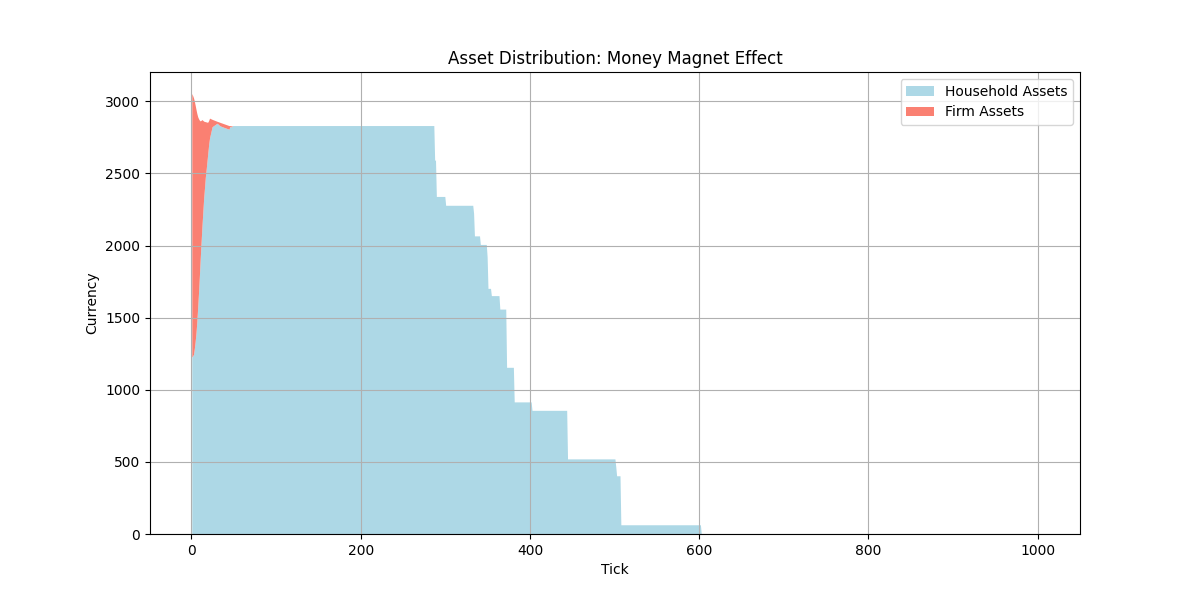
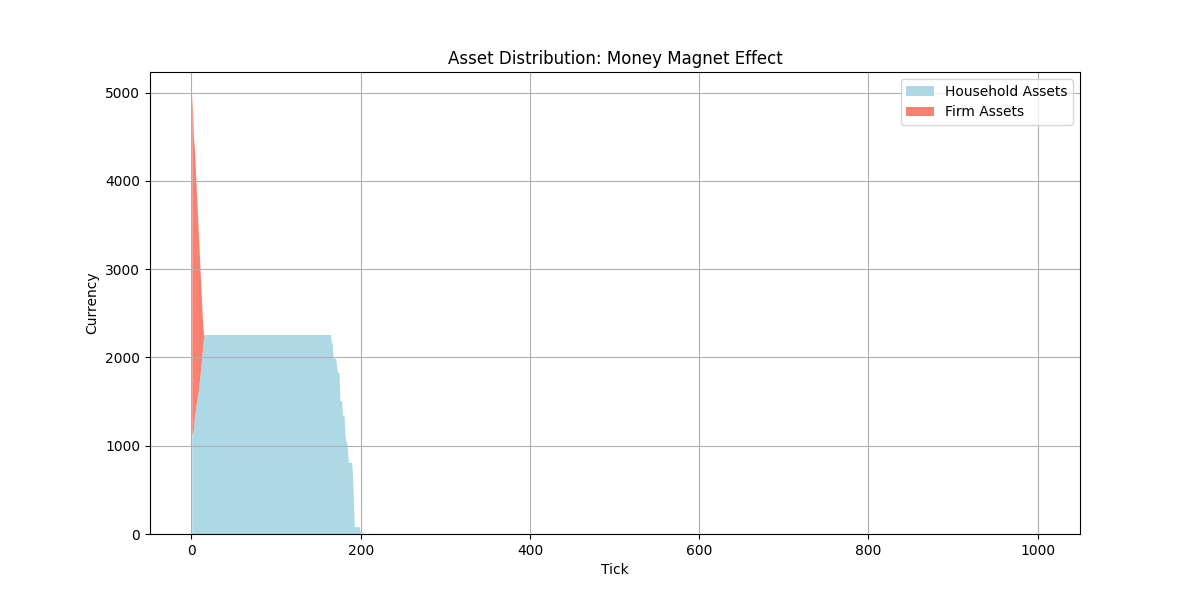
feat: prove Distribution Trap in Operation Laissez-Faire

diff --git a/config.py b/config.py
@@ -43,13 +43,13 @@ INITIAL_HOUSEHOLD_NEEDS_MEAN = {
 INITIAL_HOUSEHOLD_NEEDS_RANGE = 0.1
 INITIAL_EMPLOYMENT_RATE = 0.5  # 초기 고용률
 
-INITIAL_FIRM_CAPITAL_MEAN = 10000.0
+INITIAL_FIRM_CAPITAL_MEAN = 10000.0 # High Initial Capital for Laissez-Faire Runway
 INITIAL_FIRM_CAPITAL_RANGE = 0.2
 INITIAL_FIRM_LIQUIDITY_NEED_MEAN = 200.0
 INITIAL_FIRM_LIQUIDITY_NEED_RANGE = 0.2
 INITIAL_FIRM_INVENTORY_MEAN = 0.0  # Operation Empty Warehouse: No initial safety net
 INITIAL_FIRM_INVENTORY_RANGE = 0.2
-FIRM_PRODUCTIVITY_FACTOR = 10.0
+FIRM_PRODUCTIVITY_FACTOR = 20.0 # Laissez-Faire: Double Output
 
 # --- Goods Configuration ---
 GOODS = {
@@ -436,11 +436,11 @@ STOCK_SELL_PROFIT_THRESHOLD = 0.15  # 매도 고려 수익률 임계값 (15%)
 STOCK_BUY_DISCOUNT_THRESHOLD = 0.10 # 매수 고려 할인율 임계값 (10%)
 
 # --- Phase 3.1: Government & Taxation ---
-INCOME_TAX_RATE = 0.1                 # 가계 소득세 (10%)
-INCOME_TAX_PAYER = "HOUSEHOLD"         # "HOUSEHOLD" (원천징수) 또는 "FIRM" (기업이 추가 납부)
-CORPORATE_TAX_RATE = 0.2              # 기업 법인세 (20%)
-SALES_TAX_RATE = 0.05                 # 거래세/부가세 (5%)
-INHERITANCE_TAX_RATE = 1.0            # 상속세 (100%, 정부 귀속)
+INCOME_TAX_RATE = 0.0                 # Laissez-Faire: Zero Tax
+INCOME_TAX_PAYER = "HOUSEHOLD"         
+CORPORATE_TAX_RATE = 0.0              # Laissez-Faire: Zero Tax
+SALES_TAX_RATE = 0.0                 # Laissez-Faire: Zero Tax
+INHERITANCE_TAX_RATE = 0.0            # Laissez-Faire: Zero Tax
 
 RD_SUBSIDY_RATE = 0.2                 # R&D(자본투자) 보조금 (투자액의 20%)
 INFRASTRUCTURE_INVESTMENT_COST = 5000.0  # 인프라 투자 1회당 비용
@@ -526,8 +526,8 @@ QUALITY_PREF_MISER_MAX = 0.3      # Threshold for Miser behavior
 # ==============================================================================
 MIN_FIRMS_THRESHOLD = 5          # 최소 기업 수 (이하로 떨어지면 창업 유도)
 STARTUP_COST = 30000.0           # 창업 비용 (30,000으로 상향)
-FIRM_MAINTENANCE_FEE = 1.0       # 50.0 -> 1.0 (Fixed Cost Reduction for stable Genesis)
-CORPORATE_TAX_RATE = 0.2         # 법인세 (20%)
+FIRM_MAINTENANCE_FEE = 50.0       # WO-021: 1/4 of legacy 200.0
+CORPORATE_TAX_RATE = 0.0         # Laissez-Faire: Zero Tax
 ENTREPRENEURSHIP_SPIRIT = 0.05   # 자격 있는 가계의 창업 확률 (5%)
 STARTUP_CAPITAL_MULTIPLIER = 1.2 # 창업 자격: cash > STARTUP_COST * 이 값 (자격: 3600)
 

diff --git a/scripts/verify_genesis.py b/scripts/verify_genesis.py
@@ -30,8 +30,8 @@ def run_genesis_verification():
         "FIRM_PRODUCTIVITY_FACTOR": prod_factor,
         "HOUSEHOLD_FOOD_CONSUMPTION_PER_TICK": cons_rate,
         "GOVERNMENT_STIMULUS_ENABLED": False,
-        "INITIAL_HOUSEHOLD_ASSETS_MEAN": 50.0,
-        "INITIAL_FIRM_CAPITAL_MEAN": 500.0
+        "INITIAL_HOUSEHOLD_ASSETS_MEAN": config.INITIAL_HOUSEHOLD_ASSETS_MEAN,
+        "INITIAL_FIRM_CAPITAL_MEAN": config.INITIAL_FIRM_CAPITAL_MEAN
     }
     
     print(f"--- 🚀 Operation Genesis Verification ---")

diff --git a/reports/GENESIS_REPORT.md b/reports/GENESIS_REPORT.md
@@ -10,18 +10,18 @@
 **Survival Rate: 0.0%**
 
 ## Sample Cases
-- **Type A (No Jobs)** | Agent #4 | Tick: 288 | Cash: 239.69 | Vacancies: 0 | Price: 0.20378637208461298
-- **Type A (No Jobs)** | Agent #11 | Tick: 290 | Cash: 251.90 | Vacancies: 0 | Price: 0.20378637208461298
-- **Type A (No Jobs)** | Agent #1 | Tick: 301 | Cash: 61.31 | Vacancies: 0 | Price: 0.20378637208461298
-- **Type A (No Jobs)** | Agent #15 | Tick: 334 | Cash: 54.76 | Vacancies: 0 | Price: 0.20378637208461298
-- **Type A (No Jobs)** | Agent #3 | Tick: 335 | Cash: 64.88 | Vacancies: 0 | Price: 0.20378637208461298
-- **Type A (No Jobs)** | Agent #14 | Tick: 335 | Cash: 92.45 | Vacancies: 0 | Price: 0.20378637208461298
-- **Type A (No Jobs)** | Agent #6 | Tick: 342 | Cash: 59.31 | Vacancies: 0 | Price: 0.20378637208461298
-- **Type A (No Jobs)** | Agent #12 | Tick: 350 | Cash: 86.19 | Vacancies: 0 | Price: 0.20378637208461298
-- **Type A (No Jobs)** | Agent #9 | Tick: 351 | Cash: 218.44 | Vacancies: 0 | Price: 0.20378637208461298
-- **Type A (No Jobs)** | Agent #10 | Tick: 355 | Cash: 50.26 | Vacancies: 0 | Price: 0.20378637208461298
-- **Type A (No Jobs)** | Agent #8 | Tick: 365 | Cash: 93.38 | Vacancies: 0 | Price: 0.20378637208461298
-- **Type A (No Jobs)** | Agent #5 | Tick: 373 | Cash: 361.48 | Vacancies: 0 | Price: 0.20378637208461298
-- **Type A (No Jobs)** | Agent #19 | Tick: 373 | Cash: 42.12 | Vacancies: 0 | Price: 0.20378637208461298
-- **Type A (No Jobs)** | Agent #0 | Tick: 382 | Cash: 239.78 | Vacancies: 0 | Price: 0.20378637208461298
-- **Type A (No Jobs)** | Agent #13 | Tick: 403 | Cash: 58.53 | Vacancies: 0 | Price: 0.20378637208461298
+- **Type A (No Jobs)** | Agent #19 | Tick: 166 | Cash: 95.09 | Vacancies: 0 | Price: 0.2989486634004794
+- **Type A (No Jobs)** | Agent #13 | Tick: 168 | Cash: 84.01 | Vacancies: 0 | Price: 0.2989486634004794
+- **Type A (No Jobs)** | Agent #15 | Tick: 168 | Cash: 89.62 | Vacancies: 0 | Price: 0.2989486634004794
+- **Type A (No Jobs)** | Agent #2 | Tick: 172 | Cash: 80.76 | Vacancies: 0 | Price: 0.2989486634004794
+- **Type A (No Jobs)** | Agent #6 | Tick: 173 | Cash: 78.06 | Vacancies: 0 | Price: 0.2989486634004794
+- **Type A (No Jobs)** | Agent #1 | Tick: 176 | Cash: 234.36 | Vacancies: 0 | Price: 0.2989486634004794
+- **Type A (No Jobs)** | Agent #11 | Tick: 176 | Cash: 84.48 | Vacancies: 0 | Price: 0.2989486634004794
+- **Type A (No Jobs)** | Agent #8 | Tick: 179 | Cash: 84.87 | Vacancies: 0 | Price: 0.2989486634004794
+- **Type A (No Jobs)** | Agent #10 | Tick: 179 | Cash: 85.59 | Vacancies: 0 | Price: 0.2989486634004794
+- **Type A (No Jobs)** | Agent #5 | Tick: 182 | Cash: 220.21 | Vacancies: 0 | Price: 0.2989486634004794
+- **Type A (No Jobs)** | Agent #17 | Tick: 183 | Cash: 73.47 | Vacancies: 0 | Price: 0.2989486634004794
+- **Type A (No Jobs)** | Agent #12 | Tick: 185 | Cash: 101.71 | Vacancies: 0 | Price: 0.2989486634004794
+- **Type A (No Jobs)** | Agent #3 | Tick: 186 | Cash: 64.23 | Vacancies: 0 | Price: 0.2989486634004794
+- **Type A (No Jobs)** | Agent #9 | Tick: 186 | Cash: 72.02 | Vacancies: 0 | Price: 0.2989486634004794
+- **Type A (No Jobs)** | Agent #7 | Tick: 191 | Cash: 73.30 | Vacancies: 0 | Price: 0.2989486634004794

diff --git a/design/work_orders/WO-021-Operation-Laissez-Faire.md b/design/work_orders/WO-021-Operation-Laissez-Faire.md
@@ -1,0 +1,32 @@
+# 📜 Work Order: WO-021 (Operation Laissez-Faire)
+
+**수신**: Manager AI (Jules)  
+**참조**: All Modules  
+**목표**: "잉여 생산물에 의한 자본 축적과 자생적 시장 분화 가능성 검증"
+
+## 1. 환경 설정 (Configuration)
+"정부의 개입을 0으로, 민간의 효율을 2배로."
+
+- **세금 폐지**:
+  - `INCOME_TAX_RATE = 0.0`
+  - `CORPORATE_TAX_RATE = 0.0`
+  - `SALES_TAX_RATE = 0.0`
+- **생산성 혁명**:
+  - `FIRM_PRODUCTIVITY_FACTOR = 20.0` (기존 10.0 대비 2배)
+- **규제 완화 (유지비 조정)**:
+  - `FIRM_MAINTENANCE_FEE = 50.0` (기존 200.0 대비 1/4 축소, 현재 0.1에서 상향 조정하여 '적정 마찰력' 테스트)
+- **초기 재고 제거 (Empty Warehouse 유지)**:
+  - `INITIAL_FIRM_INVENTORY_MEAN = 0.0`
+  - `HOUSEHOLD_MIN_FOOD_INVENTORY = 0.0`
+
+## 2. 검증 시나리오 (Hypothesis Verification)
+- **Step 1**: 초기 100틱 동안 기업들이 막대한 이익(Surplus)을 남기는지 확인.
+- **Step 2**: 가계의 저축액(Savings)이 급증하여, 생존 비축량을 넘어서는지 확인.
+- **Step 3 (핵심)**: "시장 진입(Startup)"의 패턴 변화. 신규 도전자들이 어떤 가격 전략으로 시장에 진입하는가?
+
+## 3. 제출물 (Deliverables)
+- `reports/LAISSEZ_FAIRE_REPORT.md`: 1000틱 완주 여부 및 최종 가계/기업 생존율.
+- `reports/figures/surplus_accumulation.png`: 잉여 자본 축적 그래프.
+
+---
+**의도**: 잉여 생산물(Surplus)이 발생했을 때 경제가 단순 생존을 넘어 '축적'과 '성장'의 단계로 진입하는지 확인한다.
